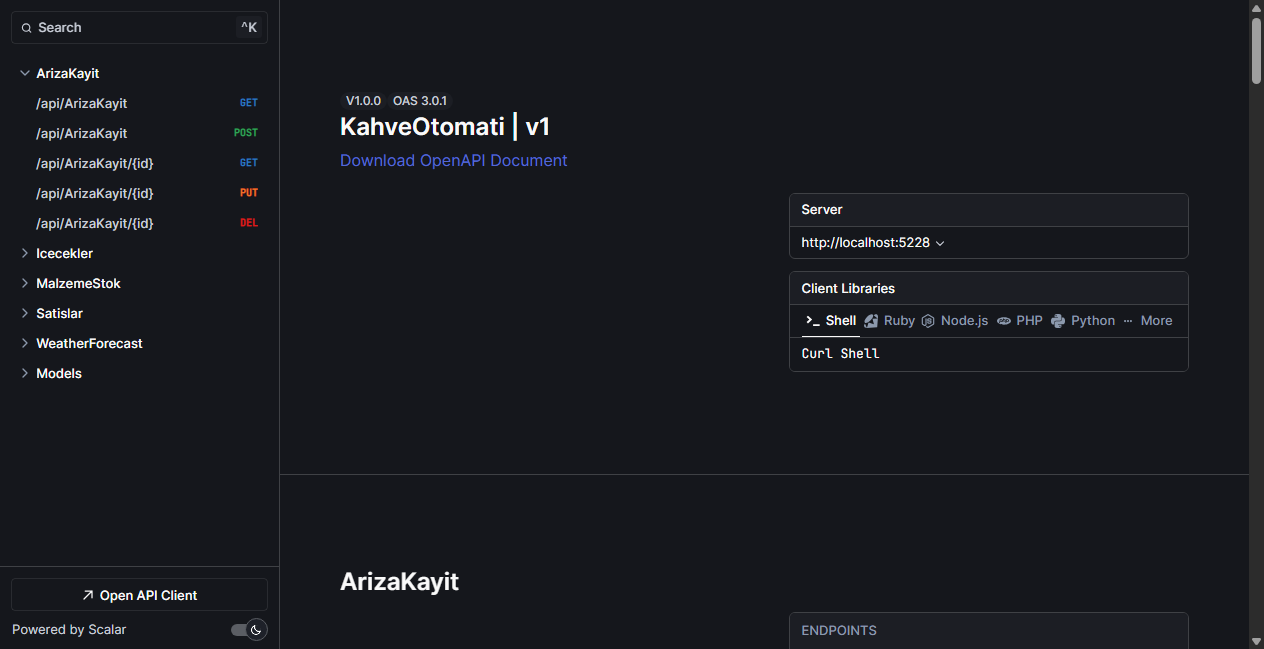
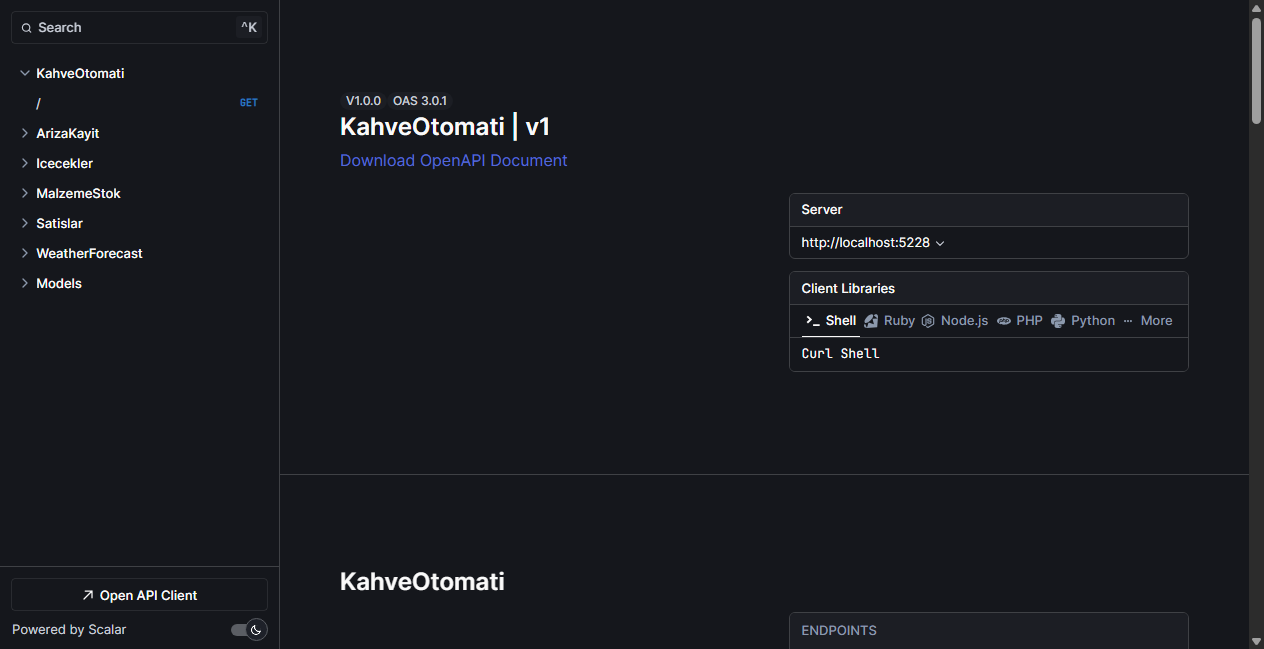
feat(KahveOtomati): Add welcome API dashboard with live database stats and capture Home screenshot

diff --git a/Proje 8 - KahveOtomati/KahveOtomati/Program.cs b/Proje 8 - KahveOtomati/KahveOtomati/Program.cs
@@ -29,6 +29,198 @@ app.UseAuthorization();
 
 app.MapControllers();
 
+app.MapGet("/", async (HttpContext context, KahveOtomati.Models.KahveOtomatiContext db) =>
+{
+    context.Response.ContentType = "text/html; charset=UTF-8";
+    
+    int drinkCount = await db.Icecekler.CountAsync();
+    int stockCount = await db.MalzemeStoklari.CountAsync();
+    int salesCount = await db.Satislar.CountAsync();
+    decimal totalSales = await db.Satislar.SumAsync(s => s.Tutar);
+    int activeErrors = await db.ArizaKayitlari.CountAsync();
+
+    string html = $@"
+<!DOCTYPE html>
+<html lang=""tr"">
+<head>
+    <meta charset=""UTF-8"">
+    <meta name=""viewport"" content=""width=device-width, initial-scale=1.0"">
+    <title>Kahve Otomatı API Portal</title>
+    <link href=""https://fonts.googleapis.com/css2?family=Plus+Jakarta+Sans:wght@300;400;500;600;700&display=swap"" rel=""stylesheet"">
+    <style>
+        :root {{
+            --bg-color: #0b0f19;
+            --card-bg: rgba(20, 26, 46, 0.45);
+            --border-color: rgba(255, 255, 255, 0.08);
+            --text-color: #f3f4f6;
+            --text-muted: #9ca3af;
+            --primary: #d97706;
+            --primary-glow: rgba(217, 119, 6, 0.15);
+            --accent: #f59e0b;
+        }}
+        * {{
+            margin: 0;
+            padding: 0;
+            box-sizing: border-box;
+            font-family: 'Plus Jakarta Sans', sans-serif;
+        }}
+        body {{
+            background: radial-gradient(circle at 50% 0%, #1e1b18 0%, var(--bg-color) 70%);
+            color: var(--text-color);
+            min-height: 100vh;
+            display: flex;
+            justify-content: center;
+            align-items: center;
+            padding: 20px;
+            overflow-x: hidden;
+        }}
+        .container {{
+            width: 100%;
+            max-width: 800px;
+            background: var(--card-bg);
+            backdrop-filter: blur(20px);
+            -webkit-backdrop-filter: blur(20px);
+            border: 1px solid var(--border-color);
+            border-radius: 24px;
+            padding: 40px;
+            box-shadow: 0 20px 40px rgba(0, 0, 0, 0.5), inset 0 1px 0 rgba(255, 255, 255, 0.1);
+            text-align: center;
+            position: relative;
+        }}
+        .container::before {{
+            content: '';
+            position: absolute;
+            top: -2px;
+            left: -2px;
+            right: -2px;
+            bottom: -2px;
+            background: linear-gradient(135deg, var(--primary), transparent 60%);
+            border-radius: 24px;
+            z-index: -1;
+            opacity: 0.5;
+        }}
+        .icon {{
+            font-size: 64px;
+            margin-bottom: 20px;
+            display: inline-block;
+            filter: drop-shadow(0 0 15px var(--primary));
+        }}
+        h1 {{
+            font-size: 2.5rem;
+            font-weight: 700;
+            margin-bottom: 10px;
+            background: linear-gradient(135deg, #ffffff 0%, #d97706 100%);
+            -webkit-background-clip: text;
+            -webkit-text-fill-color: transparent;
+        }}
+        .subtitle {{
+            color: var(--text-muted);
+            font-size: 1.1rem;
+            margin-bottom: 30px;
+        }}
+        .stats-grid {{
+            display: grid;
+            grid-template-columns: repeat(auto-fit, minmax(130px, 1fr));
+            gap: 15px;
+            margin-bottom: 35px;
+        }}
+        .stat-card {{
+            background: rgba(255, 255, 255, 0.03);
+            border: 1px solid rgba(255, 255, 255, 0.05);
+            border-radius: 16px;
+            padding: 15px;
+            transition: all 0.3s ease;
+        }}
+        .stat-card:hover {{
+            background: rgba(255, 255, 255, 0.06);
+            border-color: var(--primary);
+            transform: translateY(-2px);
+        }}
+        .stat-val {{
+            font-size: 1.5rem;
+            font-weight: 700;
+            color: var(--accent);
+            margin-bottom: 5px;
+        }}
+        .stat-lbl {{
+            font-size: 0.8rem;
+            color: var(--text-muted);
+            text-transform: uppercase;
+            letter-spacing: 0.05em;
+        }}
+        .btn {{
+            display: inline-flex;
+            align-items: center;
+            justify-content: center;
+            background: linear-gradient(135deg, var(--primary), var(--accent));
+            color: #000;
+            font-weight: 600;
+            padding: 14px 28px;
+            border-radius: 12px;
+            text-decoration: none;
+            transition: all 0.3s ease;
+            box-shadow: 0 4px 15px rgba(217, 119, 6, 0.4);
+            border: none;
+            cursor: pointer;
+            font-size: 1rem;
+        }}
+        .btn:hover {{
+            transform: translateY(-2px);
+            box-shadow: 0 6px 20px rgba(217, 119, 6, 0.6);
+        }}
+        .badge {{
+            display: inline-block;
+            padding: 6px 12px;
+            background: rgba(16, 185, 129, 0.1);
+            color: #10b981;
+            border-radius: 50px;
+            font-size: 0.85rem;
+            font-weight: 500;
+            margin-bottom: 20px;
+            border: 1px solid rgba(16, 185, 129, 0.2);
+        }}
+    </style>
+</head>
+<body>
+    <div class=""container"">
+        <span class=""icon"">☕</span>
+        <div style=""margin-bottom: 5px;"">
+            <span class=""badge"">● API Çevrimiçi</span>
+        </div>
+        <h1>Kahve Otomatı Yönetim Sistemi</h1>
+        <p class=""subtitle"">EF Core ve SQL Server tabanlı, akıllı otomat takip ve stok yönetim API Servisi</p>
+        
+        <div class=""stats-grid"">
+            <div class=""stat-card"">
+                <div class=""stat-val"">{drinkCount}</div>
+                <div class=""stat-lbl"">Aktif İçecek</div>
+            </div>
+            <div class=""stat-card"">
+                <div class=""stat-val"">{stockCount}</div>
+                <div class=""stat-lbl"">Malzeme Kalemi</div>
+            </div>
+            <div class=""stat-card"">
+                <div class=""stat-val"">{salesCount}</div>
+                <div class=""stat-lbl"">Toplam Satış</div>
+            </div>
+            <div class=""stat-card"">
+                <div class=""stat-val"">{totalSales:N2} TL</div>
+                <div class=""stat-lbl"">Ciro</div>
+            </div>
+            <div class=""stat-card"">
+                <div class=""stat-val"">{activeErrors}</div>
+                <div class=""stat-lbl"">Arıza Kaydı</div>
+            </div>
+        </div>
+        
+        <a href=""/scalar/v1"" class=""btn"">Scalar API Dokümantasyonunu Aç</a>
+    </div>
+</body>
+</html>
+";
+    await context.Response.WriteAsync(html);
+});
+
 using (var scope = app.Services.CreateScope())
 {
     try

diff --git a/capture_screenshots.py b/capture_screenshots.py
@@ -249,7 +249,7 @@ def capture_project_screenshots_selenium(url, proj_name, routes_to_capture, proj
             full_url = f"{url}{route}"
             safe_route_name = re.sub(r'[\\/*?:"<>|]', "_", route.strip("/")).replace(" ", "_")
             if not safe_route_name:
-                safe_route_name = "Api_Root" if is_api else "Home"
+                safe_route_name = "Home"
                 
             output_file = os.path.abspath(os.path.join(proj_screenshot_dir, f"{safe_route_name}.png"))
             print(f"Capturing unauthenticated route: {full_url} -> {output_file}")

diff --git a/README.md b/README.md
@@ -160,6 +160,7 @@ Akıllı kahve otomatlarının takibi, içecek stokları, malzeme yönetimi, sat
 
 ### 📸 Ekran Görüntüleri:
 <p align="left">
+  <img src="screenshots/Proje 8 - KahveOtomati/Home.png" width="260" alt="API Karşılama Ekranı" />
   <img src="screenshots/Proje 8 - KahveOtomati/scalar_v1.png" width="260" alt="Scalar Dokümantasyon" />
 </p>
 